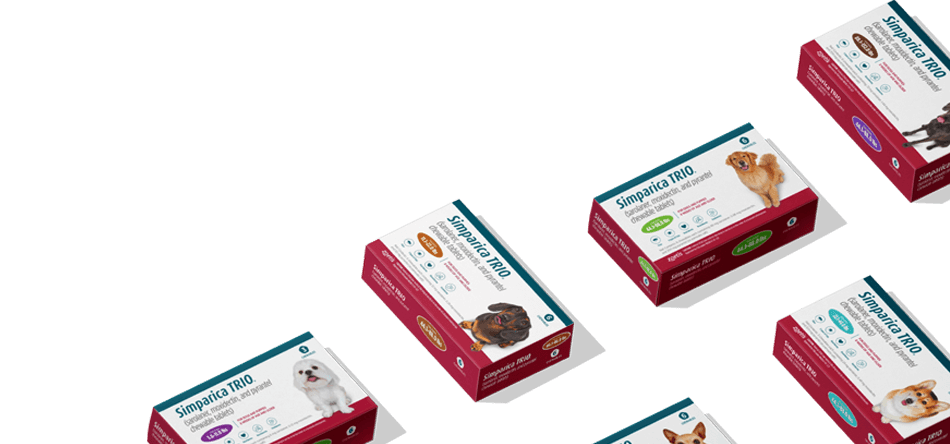
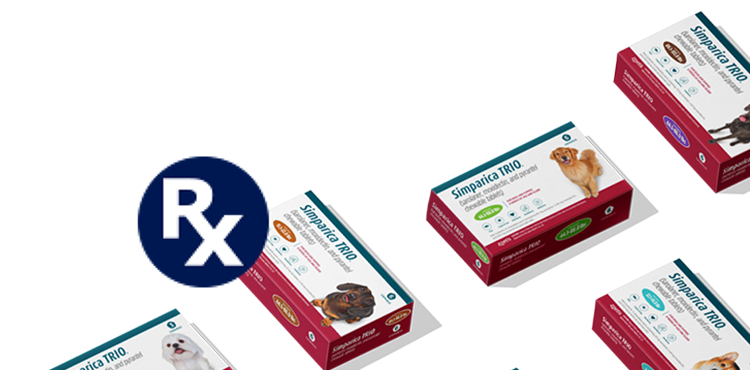
QA Feedback Updated for DES-1819

diff --git a/DES-1819_Zoetis-SimparicaTrio_GoldBP/style.css b/DES-1819_Zoetis-SimparicaTrio_GoldBP/style.css
@@ -160,7 +160,7 @@ h3 {
   background-size: cover;
   background-repeat: no-repeat;
   background-position: center;
-  background-color: #e9faff;
+  background-color: rgba(90, 199, 210, 0.10)
 }
 
 .citrusTrio__carousel--logo {
@@ -257,7 +257,7 @@ p {
 
 /* article 4up style */
 .citrusTrio__article--container {
-  max-width: 1096px;
+  max-width: 1120px;
   margin: auto;
   overflow-x: auto;
   display: flex;
@@ -273,6 +273,9 @@ p {
 
 .citrusTrio__sectionTitle--wrap h2 {
   margin: 0;
+  font-size: 20px;
+  max-width: 300px;
+  margin: 0 auto;
 }
 
 .citrusTrio__sectionTitle--wrap p {
@@ -282,6 +285,7 @@ p {
 }
 
 .citrusTrio__article-4up--single-item {
+  max-width: 259px;
   min-width: 259px;
   margin: 0 auto;
 }
@@ -336,6 +340,7 @@ p {
 .citrusTrio__article-6up .citrusTrio__article--container {
   max-width: 1440px;
   padding: 0 15px;
+  overflow-x: auto;
 }
 
 .citrusTrio__article-6up .citrusTrio__article-4up--text-wrap {
@@ -351,6 +356,11 @@ p {
 
 .citrusTrio__article-6up .citrusTrio__article-4up--single-item img {
   max-width: 177px;
+}
+
+.citrusTrio__article-6up  .citrusTrio__article-4up--single-item{
+  max-width: 177px;
+  min-width: 177px;
 }
 
 /* Comparison section */
@@ -402,7 +412,7 @@ p {
   margin: 0 auto;
 }
 .title h2 {
-  font-size: 16px;
+  font-size: 18px;
   color: #000;
   display: flex;
   align-items: center;
@@ -537,8 +547,9 @@ p.citrusTrio__disclaimer {
   margin: 25px 67px;
   font-family: "PetcoCircular-Regular", arial !important;
   font-weight: 400;
-  font-size: 12px;
+  font-size: 16px;
   color: #000;
+  text-align: left;
 }
 
 p.citrusTrio__disclaimer b{

diff --git a/DES-1819_Zoetis-SimparicaTrio_GoldBP/index.html b/DES-1819_Zoetis-SimparicaTrio_GoldBP/index.html
@@ -33,7 +33,8 @@
             <p class="citrusTrio__carousel--disclaimer">Valid prescription required.</p>
           </div>
           <div class="citrusTrio__carousel--shots">
-            <img src="image/citrusTrio__carousel1--shots.png" alt="R X badge. Woman feeding dog Simparica Trio.">
+            <img src="image/citrusTrio__carousel1--shots.png" alt="R X badge. Woman feeding dog Simparica Trio." class="citrusTrio__mobile_hide">
+            <img src="image/citrusTrio__carousel1--shots-mob.png" alt="R X badge. Woman feeding dog Simparica Trio." class="citrusTrio__desktop_hide">
           </div>
         </div>
         <!-- POV 02 -->
@@ -437,7 +438,7 @@
       sarolaner, a member of the isoxazoline class, which has been associated with neurologic adverse reactions
       including tremors, ataxia and seizures in dogs with or without a history of neurologic disorders. The safe use of
       Simparica Trio has not been evaluated in breeding, pregnant or lactating dogs. The most frequently reported
-      adverse reactions in clinical trials were vomiting and diarrhea. See full Prescribing Information at
+      adverse reactions in clinical trials were vomiting and diarrhea.<br> See full Prescribing Information at
       <b>simparicatrioPI.com.</b>
     </p>
     <!-- footer section -->

diff --git a/DES-1819_Zoetis-SimparicaTrio_GoldBP/media.css b/DES-1819_Zoetis-SimparicaTrio_GoldBP/media.css
@@ -102,6 +102,9 @@
   }
 
   /* Content 4up & Content 6up CTA */
+  .citrusTrio__article-4up--single-item{
+    min-width: 311px;
+  }
   .citrusStylesSE-cta__box--color {
     padding: 0;
     background: transparent;
@@ -208,6 +211,10 @@
   /* Size sections */
   .citrusTrio__article-4up--single-item {
     min-width: 311px;
+  }
+
+  .citrusTrio__article-4up--single-item h3{
+    font-size: 16px;
   }
 
   /* Content 6up */

diff --git a/DES-1820_Zoetis_Apoquel_SilverBP/style.css b/DES-1820_Zoetis_Apoquel_SilverBP/style.css
@@ -419,6 +419,14 @@ body {
   .citrusZoetis__product-card03 {
     padding-right: 15px;
   }
+
+  .citrusZoetis__hero--text {
+    min-width: 250px;
+  }
+
+  .citrusZoetis__hero--text h1{
+    padding-bottom: 15px;
+  }
 }
 
 
